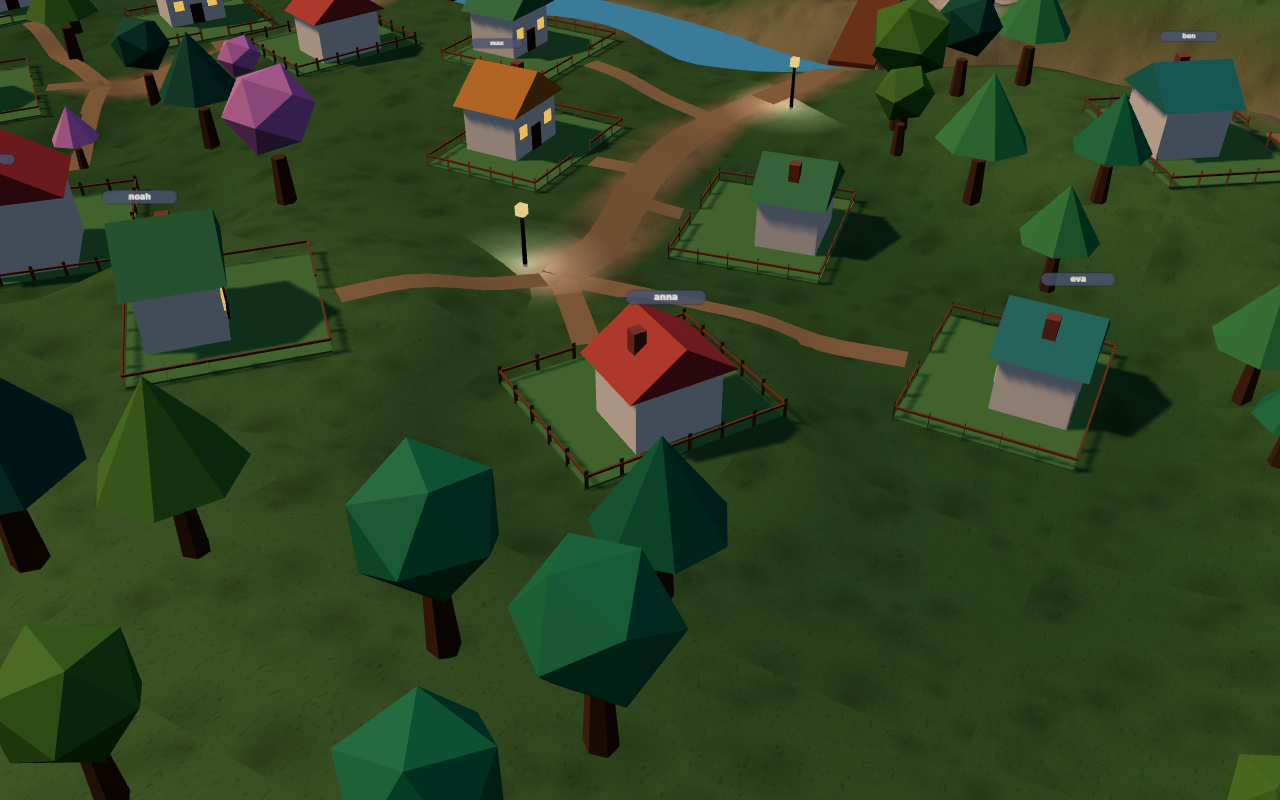
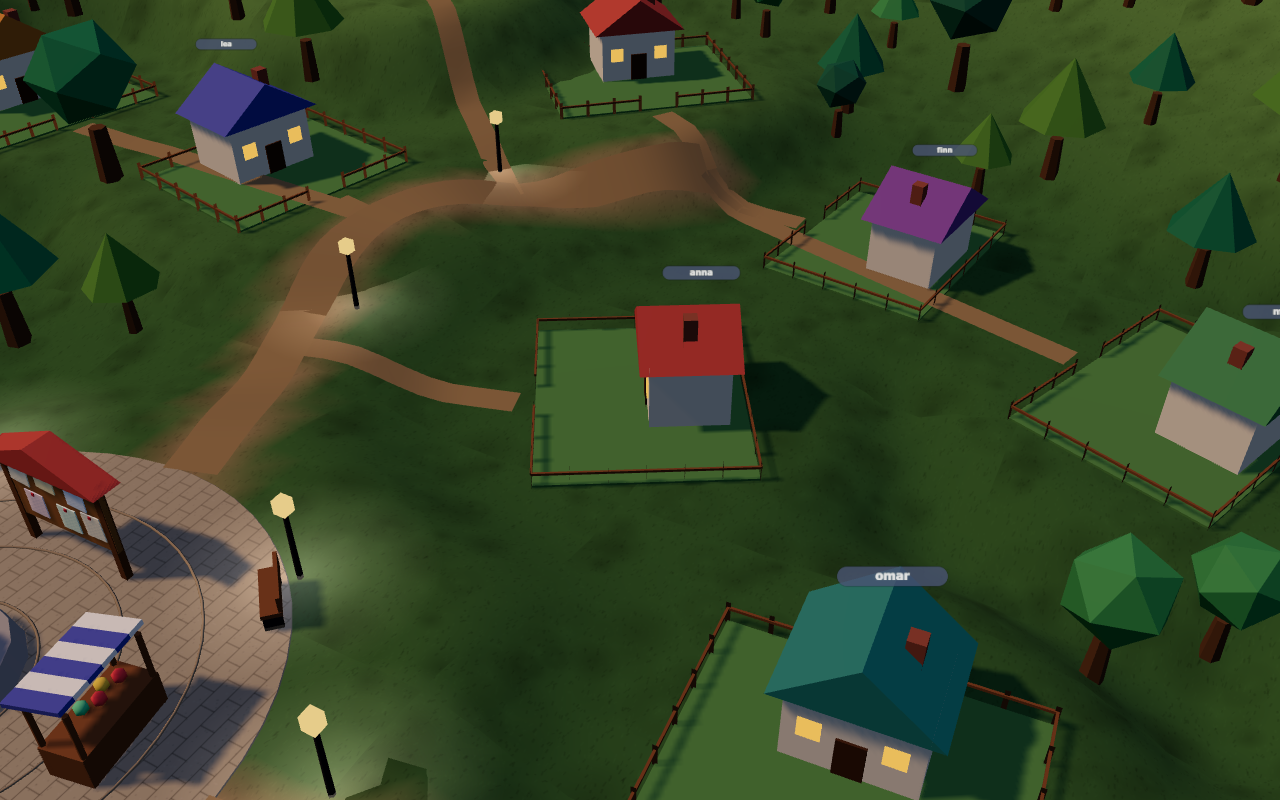
Grundstücke größer und weitläufiger, Nummern von innen nach außen, Lichtkegel gedämpft
- world/layout.ts: Grundstücke größer (Haus unverändert), mehr Abstand, Suche bis weiter nach außen; plot_index von innen nach außen (hopsFrom)
- render/nature.ts: Lichtkegel auf 60 % Deckkraft
- Tests: 223 Vitest-Tests grün (inkl. Nummerierung je Vorlage)
- Galerie: 30 Bilder neu

diff --git a/web/src/world/layout.ts b/web/src/world/layout.ts
@@ -100,22 +100,22 @@ function nearPath(samples: Point2[], x: number, z: number, r: number): boolean {
 function scatterPlots(rng: Rng, nPlots: number, terrain: Terrain, samples: Point2[], plaza: Point2): Plot[] {
   const plots: Array<Omit<Plot, 'h' | 'face' | 'link' | 'gate' | 'door' | 'index'>> = [];
   let tries = 0;
-  while (plots.length < nPlots && tries++ < 12000) {
+  while (plots.length < nPlots && tries++ < 20000) {
     const relax = Math.max(0.25, 1 - tries / 6000); // loosen the rules if the valley fills up
     const s = samples[Math.floor(rng() * samples.length)];
     const ang = rng() * Math.PI * 2;
-    const dd = 6 + rng() * rng() * (14 + (1 - relax) * 8); // mostly close, sometimes far out
+    const dd = 6 + rng() * rng() * (18 + (1 - relax) * 8); // mostly close, sometimes far out
     const x = s.x + Math.cos(ang) * dd;
     const z = s.z + Math.sin(ang) * dd;
     const big = rng() < 0.3;
-    const w = big ? 8.4 : 6.6 + rng() * 1.2;
-    const d = big ? 7.2 : 5.6 + rng() * 1.0;
+    const w = big ? 9.4 : 7.6 + rng() * 1.0; // plots are larger than the house (LOOK §6 keeps the house size)
+    const d = big ? 8.0 : 6.2 + rng() * 0.8;
     const rad = Math.hypot(w, d) / 2;
-    if (Math.hypot(x, z) > VALLEY_RADIUS + (1 - relax) * 6) continue;
+    if (Math.hypot(x, z) > VALLEY_RADIUS + (1 - relax) * 10) continue;
     if (terrain.riverDistance(x, z) < rad + 5) continue;
     if (Math.hypot(x - plaza.x, z - plaza.z) < PLAZA_RADIUS + rad + 4) continue;
     if (nearPath(samples, x, z, rad + 0.6)) continue;
-    const minGap = (2.5 + rng() * 6) * relax; // some neighbours close, some far apart
+    const minGap = (2.5 + rng() * 3.8) * relax; // more space between neighbours, but the valley must still hold 34 plots
     if (plots.some((p) => Math.hypot(p.x - x, p.z - z) < p.rad + rad + minGap)) continue;
     plots.push({ x, z, w, d, rad, big });
   }
@@ -271,6 +271,23 @@ function buildGraph(plots: Plot[], map: MapDef, laneCurves: THREE.CatmullRomCurv
   return { nodes, adj, homes, benches, fountains, board, wander };
 }
 
+/** Steps (edges) from `from` to every node; Infinity if unreachable. */
+export function hopsFrom(graph: WalkGraph, from: number): number[] {
+  const hops = new Array<number>(graph.nodes.length).fill(Infinity);
+  hops[from] = 0;
+  const queue = [from];
+  for (let head = 0; head < queue.length; head++) {
+    const u = queue[head];
+    for (const v of graph.adj[u]) {
+      if (hops[v] === Infinity) {
+        hops[v] = hops[u] + 1;
+        queue.push(v);
+      }
+    }
+  }
+  return hops;
+}
+
 /** Breadth-first search: all nodes reachable from `from`. */
 export function reachableFrom(graph: WalkGraph, from: number): Set<number> {
   const seen = new Set<number>([from]);
@@ -308,13 +325,28 @@ export function buildLayout(layoutSeed: number, plotCount: number, mapId = 'tal'
   const bridges = findBridges(terrain, laneCurves);
   const graph = buildGraph(plots, { ...map, plaza }, laneCurves);
 
+  // numbers from the inside out (SPEC §10.5): index 0 is the plot with the shortest walk to the plaza
+  const hops = hopsFrom(graph, graph.wander[graph.wander.length - 1]);
+  const order = plots
+    .map((_, i) => i)
+    .sort((a, b) => {
+      const byWalk = hops[graph.homes[a]] - hops[graph.homes[b]];
+      if (byWalk !== 0) return byWalk;
+      return (
+        Math.hypot(plots[a].x - plaza.x, plots[a].z - plaza.z) -
+        Math.hypot(plots[b].x - plaza.x, plots[b].z - plaza.z)
+      );
+    });
+  const numbered = order.map((oldIndex, newIndex) => ({ ...plots[oldIndex], index: newIndex }));
+  graph.homes = order.map((i) => graph.homes[i]);
+
   return {
     seed: layoutSeed,
     plotCount,
     map,
     plaza,
     plazaHeight,
-    plots,
+    plots: numbered,
     bridges,
     terrain,
     graph,

diff --git a/web/tests/world/maps.test.ts b/web/tests/world/maps.test.ts
@@ -63,3 +63,16 @@ describe('8a and 8b look different', () => {
     expect(a.plots[0].x).not.toBeCloseTo(b.plots[0].x, 3);
   });
 });
+
+describe('plot numbers run from the inside out (SPEC §10.5)', () => {
+  for (const mapId of MAP_IDS) {
+    it(`${mapId}: index 0 has the shortest walk to the plaza, the walk never shrinks`, async () => {
+      const { hopsFrom } = await import('../../src/world/layout');
+      const layout = buildLayout(11, PLOTS, mapId);
+      const hops = hopsFrom(layout.graph, layout.graph.wander[layout.graph.wander.length - 1]);
+      const walk = layout.plots.map((p) => hops[layout.graph.homes[p.index]]);
+      expect(layout.plots.map((p) => p.index)).toEqual(layout.plots.map((_, i) => i));
+      for (let i = 1; i < walk.length; i++) expect(walk[i]).toBeGreaterThanOrEqual(walk[i - 1]);
+    });
+  }
+});

diff --git a/web/src/render/nature.ts b/web/src/render/nature.ts
@@ -139,6 +139,7 @@ function lampGroup(lamps: Lamp[]): THREE.Group {
       transparent: true,
       depthWrite: false,
       blending: THREE.AdditiveBlending,
+      opacity: 0.6, // softer light pools (cozy, not glaring)
     }),
     lamps.length,
     (i, m) => m.makeTranslation(lamps[i].x, lamps[i].y + 0.12, lamps[i].z),

diff --git a/docs/PLAN.md b/docs/PLAN.md
@@ -209,3 +209,6 @@ Ziel: Schüler kaufen Deko und gestalten ihr Grundstück; Mitschüler sehen es.
 | 17.10.2026 | Texturen und Gras | `render/textures.ts`: prozedurale Graustufen-Texturen (Gras mit Körnung, Pflaster mit Fugen), multipliziert mit den Vertex-Farben. Gelände mit glatten Normalen statt facettiert, 140 Segmente. Die Galerie zeigt wieder die Farben aus LOOK §4 |
 | 17.10.2026 | L.5 teilweise | `render/house.ts`: Satteldach mit Überstand und Schornstein statt Pyramide, Zaun aus Pfosten und Latte mit 1,6 m Tor (nie als Wand), Gartenweg vom Tor zur Straße (ein Mesh für das ganze Dorf). Offen: Vergabe von innen nach außen, Hangregel mit Böschung, freie Plätze als Bauplatz |
 | 17.10.2026 | L.3 Wege | Wege dunkler (`#a8926c` Vertex-Farbe), schmaler (1,6 m), mit eigener Erdtextur (`dirtTexture`) als dünner Streifen auf dem Gelände |
+| 17.10.2026 | L.5 Grundstücke | Grundstücke größer (ca. 7,6–8,6 m × 6,2–7,0 m, groß 9,4 × 8,0 m), Haus unverändert. Mehr Abstand zwischen den Nachbarn, Suche bis weiter nach außen, damit die 34 Plätze in jedem Seed passen. Nummerierung von innen nach außen (Wegstrecke zum Platz, Index 0 = kürzester Weg). Test je Vorlage |
+| 17.10.2026 | Lichtkegel | Lichtkegel auf 60 % Deckkraft gedämpft. Weicht von LOOK §7 ab (dort volle Helligkeit); die Lehrkraft entscheidet in L.11 |
+| 17.10.2026 | Hinweis | Die Layouts haben sich verschoben (größere Grundstücke, neue Nummern). Bestehende Schüler behalten ihre Nummer, aber ihr Haus steht nun an anderer Stelle im Dorf |
